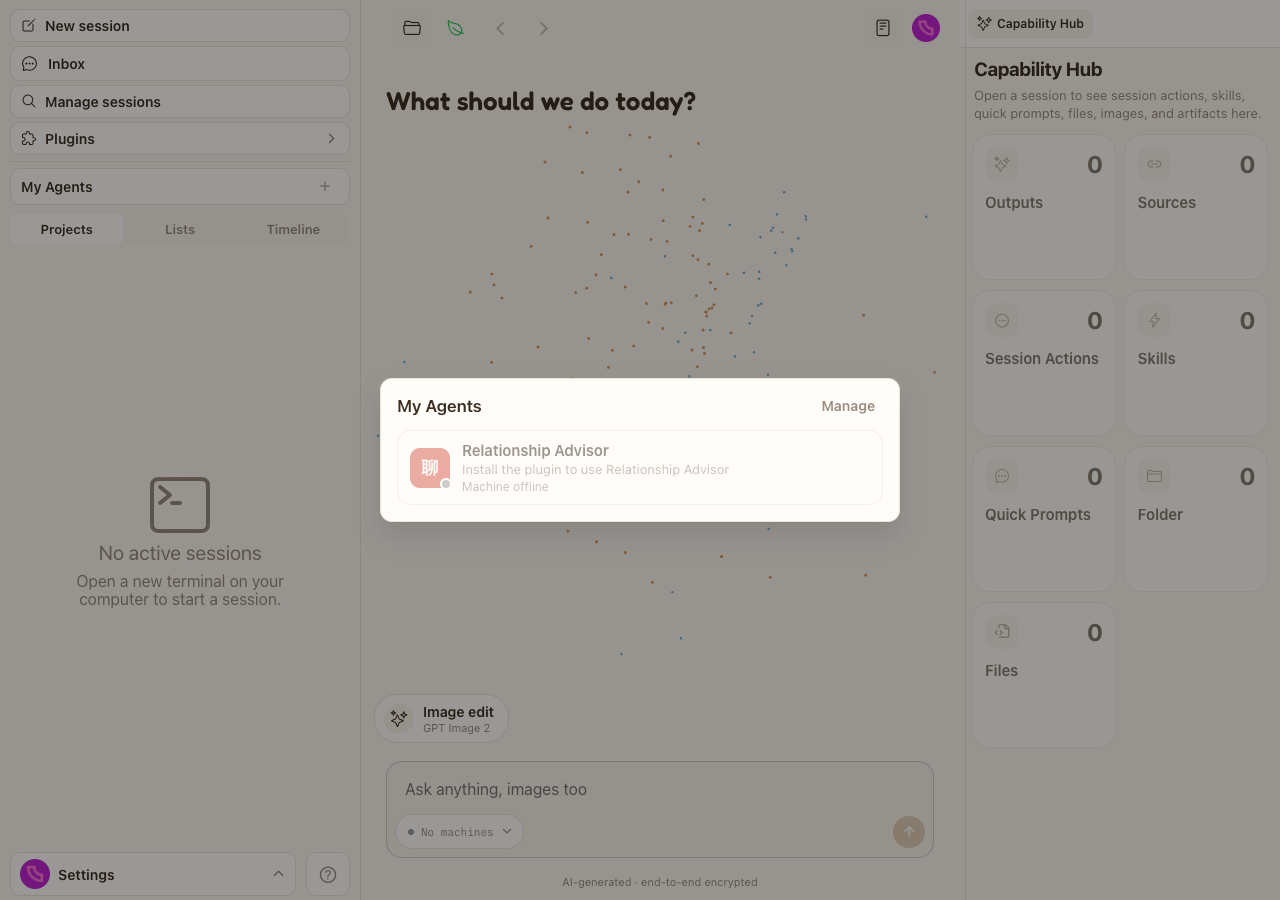
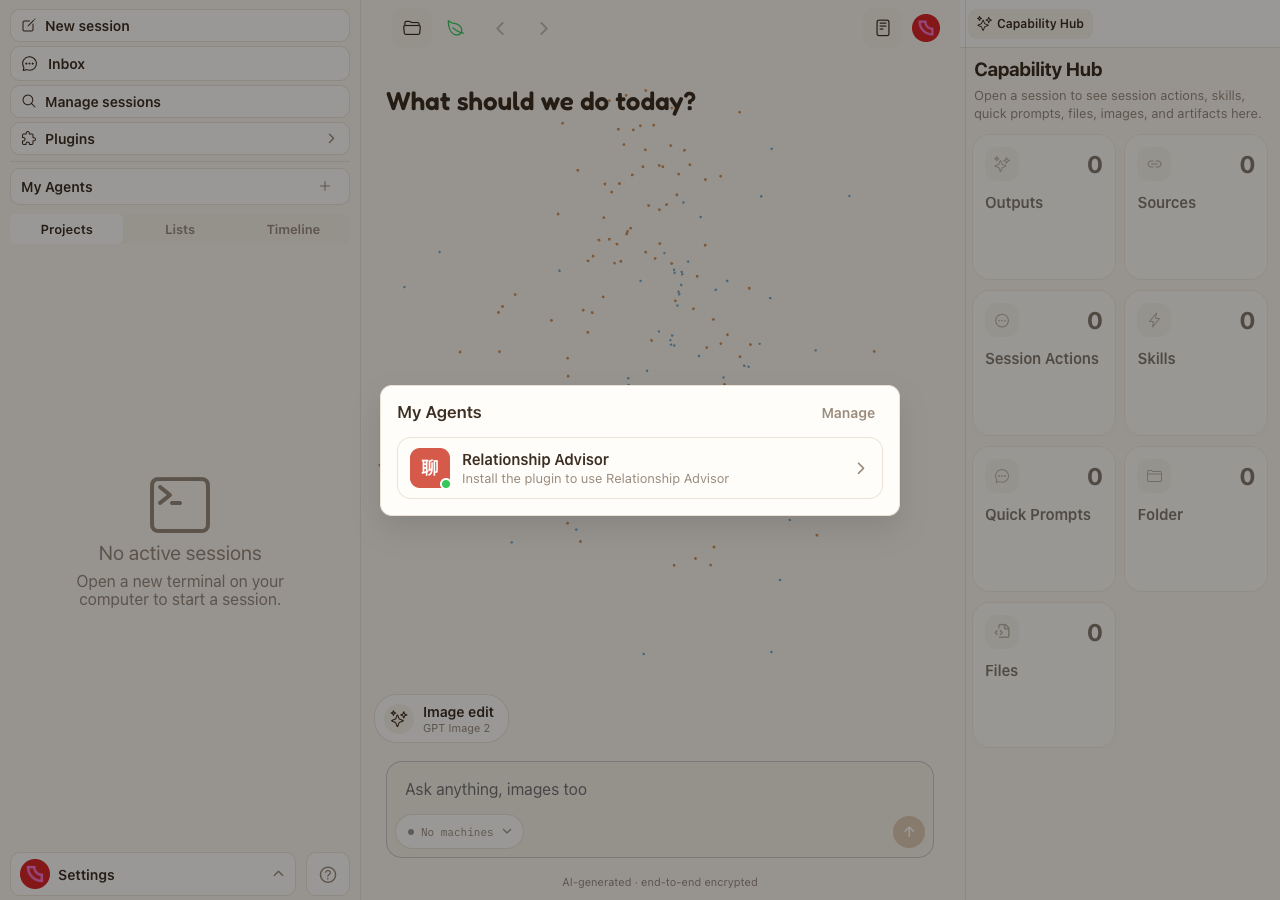
fix(plugins): add secret visibility toggle

diff --git a/packages/happy-app/e2e/plugin-marketplace-visibility.spec.ts b/packages/happy-app/e2e/plugin-marketplace-visibility.spec.ts
@@ -1,4 +1,5 @@
 import { expect, test, type Page, type TestInfo } from '@playwright/test';
+import { pluginPackages } from '@paws/plugins/catalog';
 import fs from 'node:fs';
 import path from 'node:path';
 
@@ -14,12 +15,29 @@ function authenticatedRoute(pathname: string): string {
     return url.toString();
 }
 
-function evidencePath(testInfo: TestInfo, caseId: 1 | 2): string {
+function evidencePath(testInfo: TestInfo, caseId: 1 | 2 | 3): string {
     const filename = `case-${caseId}-${evidencePhase}.png`;
     if (!evidenceDirectory) return testInfo.outputPath(filename);
     fs.mkdirSync(evidenceDirectory, { recursive: true });
     return path.join(evidenceDirectory, filename);
 }
+
+const catalogFixture = {
+    plugins: pluginPackages.map(({ manifest }) => ({
+        manifest,
+        status: manifest.id === 'relationship-advisor'
+            ? {
+                installed: true,
+                version: manifest.version,
+                configuration: {
+                    baseUrl: 'https://api.example.com/v1',
+                    model: 'example/model-mini',
+                },
+                secretHints: { apiKey: 'LLPq' },
+            }
+            : { installed: false },
+    })),
+};
 
 async function pauseForRecordedReview(page: Page): Promise<void> {
     if (process.env.HAPPY_E2E_RECORD === '1') {
@@ -49,12 +67,28 @@ test.setTimeout(120_000);
 test('[PLUGIN-MARKETPLACE-VISIBILITY] 插件目录有内容且未安装军师不进入我的 Agent', async ({ page }, testInfo) => {
     await page.setViewportSize({ width: 1280, height: 900 });
     await installDevelopmentRefreshIndicatorSuppression(page);
+    let baselineCatalogMode: 'missing' | 'uninstalled' | 'installed' = 'missing';
 
     try {
         if (evidencePhase === 'before') {
             // Reproduce the production failure that motivated PR #376: the old
             // standalone image did not expose the newly added plugin route.
             await page.route('**/v1/plugins', async (route) => {
+                if (baselineCatalogMode !== 'missing') {
+                    await route.fulfill({
+                        contentType: 'application/json',
+                        status: 200,
+                        body: JSON.stringify(baselineCatalogMode === 'uninstalled'
+                            ? {
+                                plugins: catalogFixture.plugins.map(({ manifest }) => ({
+                                    manifest,
+                                    status: { installed: false },
+                                })),
+                            }
+                            : catalogFixture),
+                    });
+                    return;
+                }
                 await route.fulfill({
                     contentType: 'application/json',
                     status: 404,
@@ -96,6 +130,7 @@ test('[PLUGIN-MARKETPLACE-VISIBILITY] 插件目录有内容且未安装军师不
         }
         await pauseForRecordedReview(page);
         await page.screenshot({ path: evidencePath(testInfo, 1), fullPage: true });
+        if (evidencePhase === 'before') baselineCatalogMode = 'uninstalled';
 
         await page.getByTestId('plugin-marketplace-close').click();
         await expect(marketplace).toHaveCount(0);
@@ -111,6 +146,46 @@ test('[PLUGIN-MARKETPLACE-VISIBILITY] 插件目录有内容且未安装军师不
         }
         await pauseForRecordedReview(page);
         await page.screenshot({ path: evidencePath(testInfo, 2), fullPage: true });
+        if (evidencePhase === 'before') baselineCatalogMode = 'installed';
+
+        await page.keyboard.press('Escape');
+        await expect(agentDialog).toHaveCount(0);
+
+        if (evidencePhase === 'after') {
+            await page.route('**/v1/plugins', async (route) => {
+                await route.fulfill({
+                    contentType: 'application/json',
+                    status: 200,
+                    body: JSON.stringify(catalogFixture),
+                });
+            });
+        }
+
+        await pluginButton.click();
+        await expect(marketplace).toBeVisible();
+        await page.getByTestId('plugin-marketplace-plugin-relationship-advisor').click();
+        const secretInput = page.getByTestId('relationship-advisor-plugin-api-key');
+        const visibilityToggle = page.getByTestId('relationship-advisor-plugin-api-key-visibility-toggle');
+        await expect(secretInput).toBeVisible();
+        await expect(secretInput).toHaveAttribute('type', 'password');
+        if (evidencePhase === 'before') {
+            await expect(visibilityToggle).toHaveCount(0);
+        } else {
+            await expect(visibilityToggle).toBeVisible();
+        }
+        await pauseForRecordedReview(page);
+        await page.screenshot({ path: evidencePath(testInfo, 3), fullPage: true });
+
+        if (evidencePhase === 'after') {
+            await secretInput.fill('e2e-replacement-secret');
+            await visibilityToggle.click();
+            await expect.poll(() => secretInput.evaluate((element) => (
+                (element as HTMLInputElement).type
+            ))).toBe('text');
+            await expect(secretInput).toHaveValue('e2e-replacement-secret');
+            await visibilityToggle.click();
+            await expect(secretInput).toHaveAttribute('type', 'password');
+        }
     } finally {
         await page.close();
     }

diff --git a/packages/happy-app/sources/components/plugins/DynamicPluginConfiguration.tsx b/packages/happy-app/sources/components/plugins/DynamicPluginConfiguration.tsx
@@ -7,6 +7,7 @@ import { StyleSheet, useUnistyles } from 'react-native-unistyles';
 import { Item } from '@/components/Item';
 import { ItemGroup } from '@/components/ItemGroup';
 import { ItemList } from '@/components/ItemList';
+import { SecureTextInput } from '@/components/SecureTextInput';
 import { Typography } from '@/constants/Typography';
 import { useHappyAction } from '@/hooks/useHappyAction';
 import { installPlugin, uninstallPlugin } from '@/sync/plugins';
@@ -70,6 +71,7 @@ export const DynamicPluginConfiguration = React.memo(function DynamicPluginConfi
                         : undefined}
                 >
                     {manifest.configuration.fields.map((field) => {
+                        const label = resolvePluginText(field.label);
                         const secretHint = status.installed ? status.secretHints[field.key] : undefined;
                         const placeholder = secretHint
                             ? `•••• ${secretHint}`
@@ -78,28 +80,43 @@ export const DynamicPluginConfiguration = React.memo(function DynamicPluginConfi
                                 : undefined;
                         return (
                             <View key={field.key} style={styles.fieldRow}>
-                                <Text style={styles.fieldLabel}>{resolvePluginText(field.label)}</Text>
-                                <TextInput
-                                    accessibilityLabel={resolvePluginText(field.label)}
-                                    autoCapitalize="none"
-                                    autoCorrect={false}
-                                    keyboardType={field.type === 'url' ? 'url' : 'default'}
-                                    onChangeText={(value) => setValues((current) => ({
-                                        ...current,
-                                        [field.key]: value,
-                                    }))}
-                                    placeholder={placeholder}
-                                    placeholderTextColor={theme.colors.textSecondary}
-                                    secureTextEntry={field.type === 'secret'}
-                                    style={styles.textInput}
-                                    testID={fieldTestId(manifest.id, field.key)}
-                                    textContentType={field.type === 'secret'
-                                        ? 'password'
-                                        : field.type === 'url'
-                                            ? 'URL'
-                                            : 'none'}
-                                    value={values[field.key] ?? ''}
-                                />
+                                <Text style={styles.fieldLabel}>{label}</Text>
+                                {field.type === 'secret' ? (
+                                    <SecureTextInput
+                                        accessibilityLabel={label}
+                                        autoCapitalize="none"
+                                        autoCorrect={false}
+                                        hideValueAccessibilityLabel={`${label} · ${t('settingsAccount.tapToHide')}`}
+                                        onChangeText={(value) => setValues((current) => ({
+                                            ...current,
+                                            [field.key]: value,
+                                        }))}
+                                        placeholder={placeholder}
+                                        placeholderTextColor={theme.colors.textSecondary}
+                                        showValueAccessibilityLabel={`${label} · ${t('settingsAccount.tapToReveal')}`}
+                                        testID={fieldTestId(manifest.id, field.key)}
+                                        textContentType="password"
+                                        value={values[field.key] ?? ''}
+                                        visibilityButtonTestID={`${fieldTestId(manifest.id, field.key)}-visibility-toggle`}
+                                    />
+                                ) : (
+                                    <TextInput
+                                        accessibilityLabel={label}
+                                        autoCapitalize="none"
+                                        autoCorrect={false}
+                                        keyboardType={field.type === 'url' ? 'url' : 'default'}
+                                        onChangeText={(value) => setValues((current) => ({
+                                            ...current,
+                                            [field.key]: value,
+                                        }))}
+                                        placeholder={placeholder}
+                                        placeholderTextColor={theme.colors.textSecondary}
+                                        style={styles.textInput}
+                                        testID={fieldTestId(manifest.id, field.key)}
+                                        textContentType={field.type === 'url' ? 'URL' : 'none'}
+                                        value={values[field.key] ?? ''}
+                                    />
+                                )}
                             </View>
                         );
                     })}

diff --git a/packages/happy-app/sources/components/plugins/DynamicPluginConfiguration.test.tsx b/packages/happy-app/sources/components/plugins/DynamicPluginConfiguration.test.tsx
@@ -6,7 +6,7 @@ import { afterEach, beforeEach, describe, expect, it, vi } from 'vitest';
 import TestRenderer from 'react-test-renderer';
 
 const mocks = vi.hoisted(() => ({ install: vi.fn(), uninstall: vi.fn() }));
-vi.mock('react-native', () => ({ Text: 'Text', TextInput: 'TextInput', View: 'View' }));
+vi.mock('react-native', () => ({ Pressable: 'Pressable', Text: 'Text', TextInput: 'TextInput', View: 'View' }));
 vi.mock('@expo/vector-icons', () => ({ Ionicons: 'Ionicons' }));
 vi.mock('react-native-unistyles', () => ({
     StyleSheet: { hairlineWidth: 1, create: (factory: any) => factory({ colors: {
@@ -116,9 +116,48 @@ describe('DynamicPluginConfiguration', () => {
             }} />);
         });
 
-        const token = renderer.root.findByProps({ testID: 'server-plugin-plugin-token' });
+        const token = renderer.root.findAllByType('TextInput')[0];
         expect(token.props.value).toBe('');
         expect(token.props.placeholder).toContain('1234');
+        act(() => renderer.unmount());
+    });
+
+    it('lets the user reveal and conceal only the newly entered secret', async () => {
+        let renderer: any;
+        await act(async () => {
+            renderer = TestRenderer.create(<DynamicPluginConfiguration plugin={{
+                manifest,
+                status: {
+                    installed: true,
+                    version: '2.3.0',
+                    configuration: { endpoint: 'https://example.com/v1' },
+                    secretHints: { token: '1234' },
+                },
+            }} />);
+        });
+
+        const token = renderer.root.findAllByType('TextInput')[0];
+        const visibilityToggle = renderer.root.findByProps({
+            testID: 'server-plugin-plugin-token-visibility-toggle',
+        });
+        expect(token.props.secureTextEntry).toBe(true);
+        expect(token.props.value).toBe('');
+
+        act(() => token.props.onChangeText('replacement-secret'));
+        expect(renderer.root.findAllByType('TextInput')[0].props.value)
+            .toBe('replacement-secret');
+
+        act(() => visibilityToggle.props.onPress());
+        expect(renderer.root.findAllByType('TextInput')[0].props.secureTextEntry)
+            .toBe(false);
+        expect(renderer.root.findByProps({ testID: 'server-plugin-plugin-token-visibility-toggle' })
+            .props.accessibilityLabel).toContain('settingsAccount.tapToHide');
+
+        act(() => renderer.root.findByProps({
+            testID: 'server-plugin-plugin-token-visibility-toggle',
+        }).props.onPress());
+        expect(renderer.root.findAllByType('TextInput')[0].props.secureTextEntry)
+            .toBe(true);
         act(() => renderer.unmount());
     });
 });

diff --git a/packages/happy-app/sources/components/SecureTextInput.tsx b/packages/happy-app/sources/components/SecureTextInput.tsx
@@ -1,0 +1,86 @@
+import { Ionicons } from '@expo/vector-icons';
+import * as React from 'react';
+import {
+    Pressable,
+    TextInput,
+    type TextInputProps,
+    View,
+} from 'react-native';
+import { StyleSheet, useUnistyles } from 'react-native-unistyles';
+
+import { Typography } from '@/constants/Typography';
+
+type Props = Omit<TextInputProps, 'secureTextEntry' | 'style'> & {
+    hideValueAccessibilityLabel: string;
+    showValueAccessibilityLabel: string;
+    visibilityButtonTestID?: string;
+};
+
+export const SecureTextInput = React.memo(React.forwardRef<TextInput, Props>(function SecureTextInput({
+    hideValueAccessibilityLabel,
+    showValueAccessibilityLabel,
+    visibilityButtonTestID,
+    ...inputProps
+}, ref) {
+    const { theme } = useUnistyles();
+    const [valueVisible, setValueVisible] = React.useState(false);
+
+    return (
+        <View style={styles.container}>
+            <TextInput
+                {...inputProps}
+                ref={ref}
+                secureTextEntry={!valueVisible}
+                style={styles.input}
+            />
+            <Pressable
+                accessibilityLabel={valueVisible
+                    ? hideValueAccessibilityLabel
+                    : showValueAccessibilityLabel}
+                accessibilityRole="button"
+                hitSlop={6}
+                onPress={() => setValueVisible((current) => !current)}
+                style={({ pressed }) => [styles.visibilityButton, pressed && styles.pressed]}
+                testID={visibilityButtonTestID}
+            >
+                <Ionicons
+                    color={theme.colors.textSecondary}
+                    name={valueVisible ? 'eye-off-outline' : 'eye-outline'}
+                    size={22}
+                />
+            </Pressable>
+        </View>
+    );
+}));
+
+const styles = StyleSheet.create((theme) => ({
+    container: {
+        alignItems: 'center',
+        backgroundColor: theme.colors.input.background,
+        borderColor: theme.colors.divider,
+        borderRadius: 10,
+        borderWidth: StyleSheet.hairlineWidth,
+        flexDirection: 'row',
+        minHeight: 44,
+        overflow: 'hidden',
+    },
+    input: {
+        ...Typography.default(),
+        color: theme.colors.text,
+        flex: 1,
+        fontSize: 15,
+        minHeight: 44,
+        paddingLeft: 12,
+        paddingRight: 4,
+    },
+    visibilityButton: {
+        alignItems: 'center',
+        alignSelf: 'stretch',
+        justifyContent: 'center',
+        minHeight: 44,
+        width: 44,
+    },
+    pressed: {
+        opacity: 0.55,
+    },
+}));
